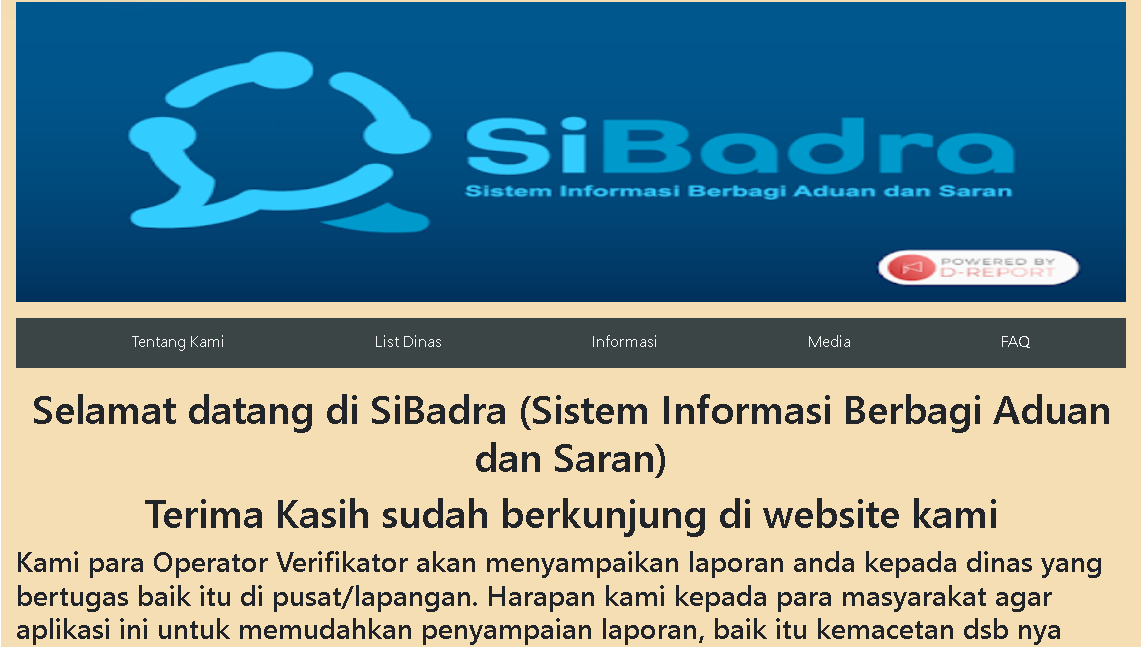
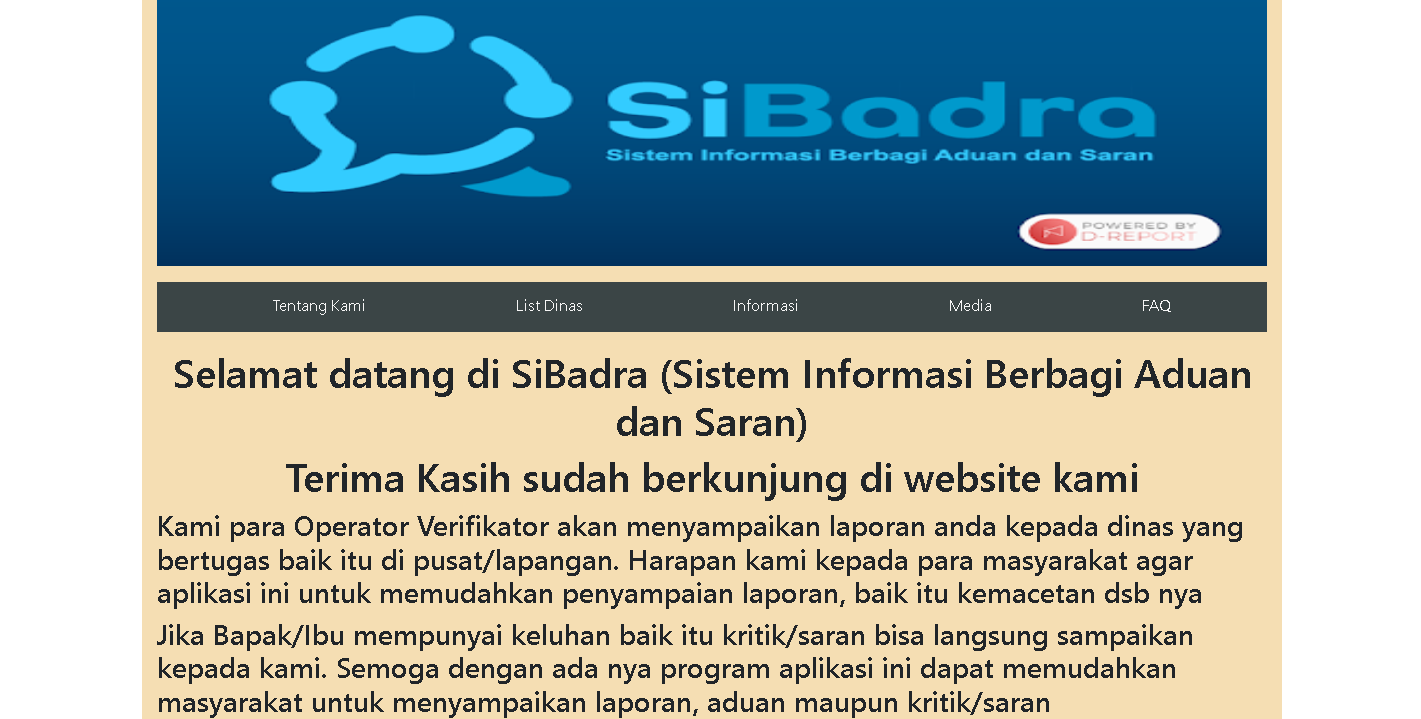
revisi codingan banyak dah intinya, mulai dari contact me ditengah dsb nya

diff --git a/style.css b/style.css
@@ -3,6 +3,7 @@ body {
     margin: 0;
     padding: 0;
 }
+
 .center-text {
     text-align: center;
 }
@@ -17,10 +18,52 @@ body {
     margin: 10px;
 }
 .portfolio-item img {
+    max-width: 100%; /* Pastikan gambar tetap responsif */
+    height: auto;
+    margin-bottom: 10px; /* Jarak antara gambar dan tombol */
+}
+.portfolio-item button {
+    margin-top: 10px; /* Jarak tombol dari elemen sebelumnya */
+}
+
+#portfolio .portfolio-item.center-content {
+    display: flex;
+    flex-direction: column;
+    justify-content: center;
+    align-items: center;
+    text-align: center;
+    margin: 0 auto; /* Memastikan elemen berada di tengah */
+    width: fit-content; /* Ukuran menyesuaikan konten */
+}
+#portfolio .portfolio-item img {
+    display: block;
+    margin-bottom: 1em; /* Jarak antara gambar dan tombol */
     max-width: 100%;
     height: auto;
 }
-.portfolio-item button {
+
+#portfolio .portfolio-item button {
+    display: inline-block;
+    margin-top: 1em;
+    padding: 0.5em 1em;
+    text-align: center;
+}
+
+#portfolio .portfolio-item.center-content img,
+#portfolio .portfolio-item.center-content button {
+    display: block;
+    margin: 0 auto; /* Untuk memastikan elemen benar-benar berada di tengah */
+}
+
+.center-content {
+    display: flex;
+    flex-direction: column;
+    align-items: center;   /* Agar elemen berada di tengah horizontal */
+    justify-content: center; /* Agar elemen berada di tengah vertikal */
+    text-align: center;
+}
+
+.center-button {
     display: block;
     margin: 10px auto;
 }
@@ -52,7 +95,7 @@ section {
     text-align: center;
 }
 
-#profile h1, #profile p, #profile button {
+h1, p, button {
     margin: 0.5em 0;
 }
 
@@ -103,11 +146,38 @@ section {
     cursor: pointer;
 }
 
+.flex-center {
+    display: flex;
+    justify-content: center;
+    align-items: center;
+}
 
+.contact-list {
+    display: flex; 
+    justify-content: center; /* Rata tengah horizontal */ 
+    align-items: center; /* Rata tengah vertikal */ 
+    list-style-type: none; 
+    padding: 10px 0; /* Tambahkan ruang atas dan bawah */
+    margin: 0 auto; /* Agar container selalu di tengah */ 
+    flex-wrap: wrap; /* Membuat elemen membungkus jika layar sempit */ 
+    max-width: 90%; /* Membatasi lebar maksimal container */
+    gap: 20px; /* Tambahkan gap untuk jarak antar elemen */
+}
 
-/* CSS untuk menengahkan bagian profil */ 
-#profile { display: flex; flex-direction: column; align-items: center; text-align: center; } 
-#profile h1, #profile p, #profile button { margin: 0.5em 0; }
+.contact-list li { 
+    display: flex; 
+    align-items: center; /* Rata tengah ikon dan teks */ 
+    margin: 10px; /* Jarak antar elemen */ 
+    text-align: center; /* Agar teks selalu di tengah */ 
+}
+
+.contact-list img { 
+    margin-left: 5px; /* Jarak ikon dari teks sebelumnya */ 
+    width: 20px; /* Ukuran ikon lebih kecil */ 
+    height: 20px; 
+    object-fit: contain; 
+    cursor: pointer; 
+}
 
 h1 {
     font-size: 1.5em;
@@ -121,28 +191,63 @@ button {
     padding: 0.5em 1em;
     border-radius: 4px;
     cursor: pointer;
+    width: auto;
+    max-width: 100%; /* Agar tombol tidak melewati lebar layar */
 }
 
 button:hover {
     background-color: #0056b3;
 }
 
+.email-item { 
+    margin-top: -5px; /* Sesuaikan nilai margin negatif sesuai kebutuhan */ 
+}
+
+.contact-list img {
+    width: 40px;
+    height: 40px; /* Proporsional untuk semua layar */
+    cursor: pointer;
+}
+
+li {
+    margin: 10px 0;
+}
+
 /* Responsive Styles */
-@media (max-width: 600px) {
-    main {
-        padding: 1em;
+/* Global Styles */
+.contact-list li, .portfolio-item {
+    margin: 10px 0; /* Berlaku untuk semua layar */
+}
+
+/* Untuk layar kecil (ponsel) */
+@media (max-width: 767px) {
+    .contact-list, .portfolio-items, .center-content {
+        flex-direction: column; /* Tumpuk elemen secara vertikal */
+        align-items: center;
+    }
+    .contact-list li, .portfolio-item {
+        margin: 10px 0;
+    }
+}
+
+/* Untuk layar sedang (tablet) */
+@media (min-width: 768px) and (max-width: 1199px) {
+    .contact-list {
+        flex-wrap: wrap; /* Bungkus elemen jika layar tidak cukup lebar */
     }
 
-    section {
-        padding: 0.5em;
+    .contact-list li {
+        margin: 10px 15px; /* Tambahkan jarak horizontal */
+    }
+}
+
+/* Untuk layar besar (desktop) */
+@media (min-width: 1200px) {
+    .contact-list {
+        justify-content: space-around; /* Beri lebih banyak ruang antar elemen */
     }
 
-    h1 {
-        font-size: 1.2em;
-    }
-
-    button {
-        width: 100%;
-        padding: 1em;
+    .contact-list li {
+        margin: 0 20px; /* Sedikit jarak antar elemen */
     }
 }

diff --git a/index.html b/index.html
@@ -25,19 +25,17 @@
             </a>
         </section>
         
-        <section id="portfolio center-text">
+        <section id="portfolio" class="center-text">
             <h1 class="center-text">Portfolio</h1>
             <div class="portfolio-category center-text">
                 <h2>Coding</h2>
                 <div class="portfolio-items">
-                    <div class="portfolio-item">
-                        <img src="ss_porto_coding/SiBadra.png" alt="Coding Project 1 Screenshot">
+                    <div class="portfolio-item center-content">
+                        <img src="ss_porto_coding/sibadra.png" alt="Coding Project 1 Screenshot">
                         <a href="https://reighex.github.io/finalproject.github.io/" target="_blank">
                         <button>View details on GitHub</button>
                         </a>
-                        
                         </div>
-                    <!-- Tambahkan lebih banyak item coding sesuai kebutuhan -->
                 </div>
             </div>
             <div class="portfolio-category center-text">
@@ -50,12 +48,10 @@
                 <h2>Blender</h2>
                 <div class="portfolio-items">
                     <div class="portfolio-item">
-                        <img src="ss_porto_modelling/mug.png" alt="Blender Project Modelling Screenshot 1" class="photo" id="myPhoto"></div>
-                        <img src="ss_porto_modelling/character.png" alt="Blender Project Modelling Screenshot 2" class="photo" id="myPhoto"></div>
+                        <img src="ss_porto_modelling/mug.png" alt="Blender Project Modelling Screenshot 1" class="photo" id="myPhoto1">
+                        <img src="ss_porto_modelling/character.png" alt="Blender Project Modelling Screenshot 2" class="photo" id="myPhoto2"></div>
+                        </div>
                     </div>
-                    <!-- Tambahkan lebih banyak item Blender sesuai kebutuhan -->
-                </div>
-            </div>
         </section>
         
 
@@ -72,12 +68,18 @@
             </div>
         </section>
 
-        <section id="contact">
+        <section id="contact" class="center-text">
             <h1>Contact Me</h1>
-            <ul>
-                <li>Email: alyan@example.com</li>
-                <li>LinkedIn: <a href="link_to_linkedin">Alyan's LinkedIn</a></li>
-                <li>GitHub: <a href="link_to_github">Alyan's GitHub</a></li>
+            <ul class="contact-list flex-center">
+                <li class="email-item">Email: alyanrizky@gmail.com</li>
+                <li>WhatsApp: <a href="https://api.whatsapp.com/send?phone=6282260717739" target="_blank">
+                    <img src="whatsapp-icon.png" alt="WhatsApp" class="whatsapp-icon">
+                </a>
+                </li>
+                <li>GitHub: <a href="https://github.com/ReighEX" target="_blank">
+                    <img src="github-icon.png" alt="GitHub" class="github-icon">
+                    </a>
+                </li>
                 <!-- Additional contact details -->
             </ul>
         </section>

diff --git a/scripts.js b/scripts.js
@@ -12,11 +12,18 @@ document.addEventListener('DOMContentLoaded', function() {
 
 document.addEventListener("DOMContentLoaded", function() {
     var modal = document.getElementById("myModal");
-    var img = document.getElementById("myPhoto");
     var modalImg = document.getElementById("img01");
     var span = document.getElementsByClassName("close")[0];
 
-    img.onclick = function() {
+    var img1 = document.getElementById("myPhoto1");
+    var img2 = document.getElementById("myPhoto2");
+
+    img1.onclick = function() {
+        modal.style.display = "block";
+        modalImg.src = this.src;
+    }
+
+    img2.onclick = function() {
         modal.style.display = "block";
         modalImg.src = this.src;
     }
@@ -25,4 +32,5 @@ document.addEventListener("DOMContentLoaded", function() {
         modal.style.display = "none";
     }
 });
+
 
